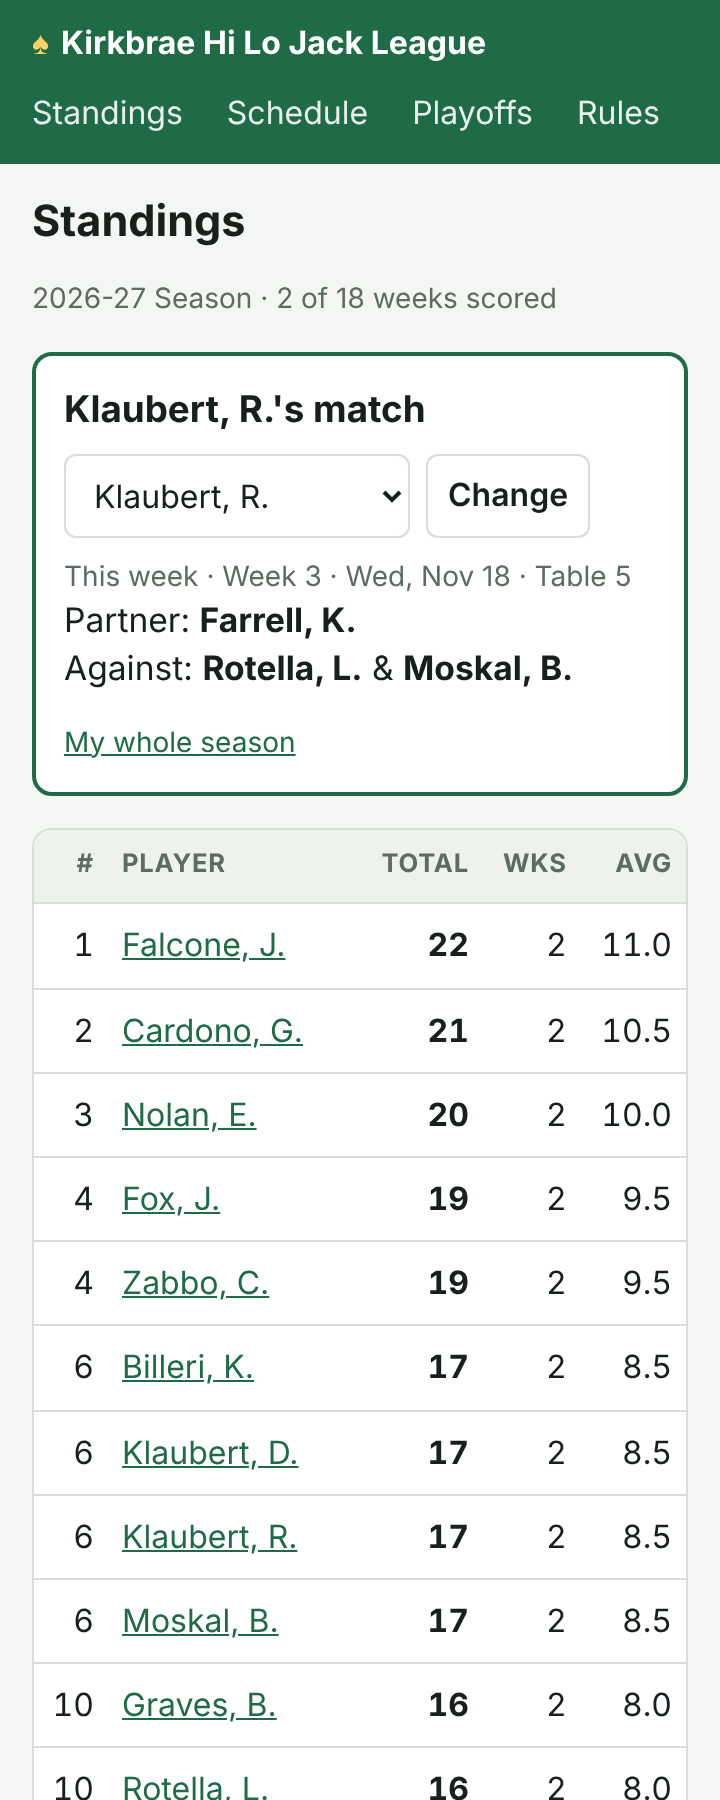
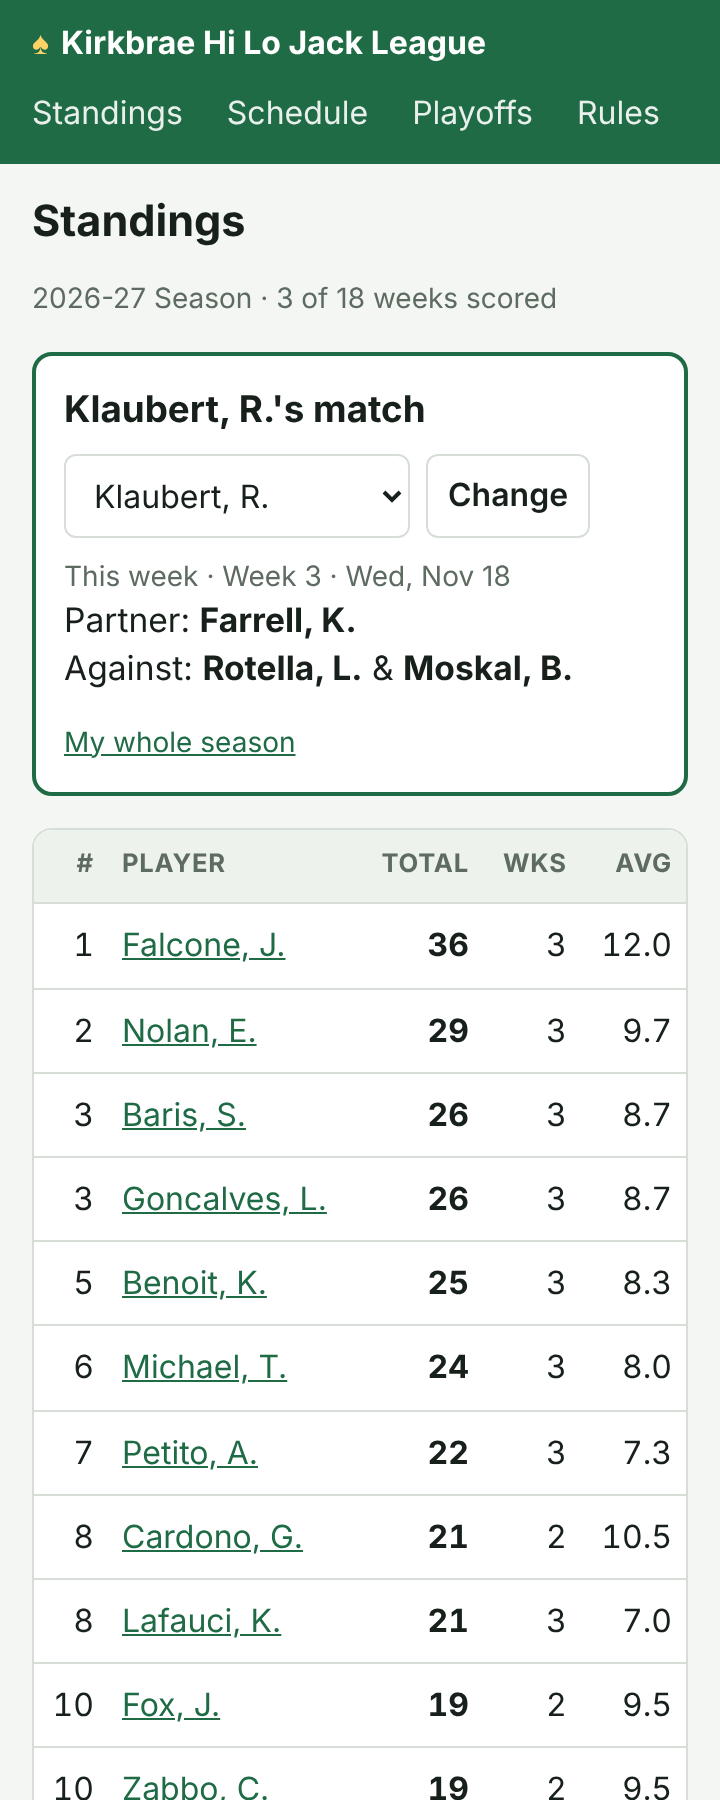
Schedule: arrows only; hide table numbers from players
Claude-Session: https://claude.ai/code/session_01Jx83TDyqF9uZXo5KMhtqjT

diff --git a/app/(site)/players/[id]/page.tsx b/app/(site)/players/[id]/page.tsx
@@ -49,7 +49,6 @@ export default async function PlayerPage({ params }: { params: Promise<{ id: str
             <tr>
               <th className="num">Wk</th>
               <th>Date</th>
-              <th>Table</th>
               <th>Partner</th>
               <th>Opponents</th>
               <th className="num">Points</th>
@@ -61,7 +60,6 @@ export default async function PlayerPage({ params }: { params: Promise<{ id: str
                 <tr key={r.w.week_no}>
                   <td className="num" data-label="Week"><Link href={`/schedule?week=${r.w.week_no}`}>{r.w.week_no}</Link></td>
                   <td data-label="Date">{fmtDate(r.w.play_date, { short: true })}</td>
-                  <td data-label="Table">{r.m.table_no}</td>
                   <td data-label="Partner">{who(r.partner!)}</td>
                   <td data-label="Against">{who(r.opps![0])} &amp; {who(r.opps![1])}</td>
                   <td className="num" data-label="Points">
@@ -78,7 +76,7 @@ export default async function PlayerPage({ params }: { params: Promise<{ id: str
                 <tr key={r.w.week_no}>
                   <td className="num" data-label="Week">{r.w.week_no}</td>
                   <td data-label="Date">{fmtDate(r.w.play_date, { short: true })}</td>
-                  <td colSpan={4} className="muted" data-label="">Not scheduled</td>
+                  <td colSpan={3} className="muted" data-label="">Not scheduled</td>
                 </tr>
               ),
             )}
@@ -86,7 +84,7 @@ export default async function PlayerPage({ params }: { params: Promise<{ id: str
         </table>
       </div>
       <p className="small muted">
-        <Link href={`/schedule?player=${id}`}>Show on the schedule</Link>
+        <Link href="/schedule">This week&apos;s schedule</Link>
       </p>
     </div>
   );

diff --git a/app/globals.css b/app/globals.css
@@ -195,19 +195,18 @@ section[id^="week-"] { scroll-margin-top: 12px; }
   /* Player season table: one compact block per week */
   table.stack-sm thead { display: none; }
   table.stack-sm tr {
-    display: grid; grid-template-columns: auto auto auto 1fr;
-    grid-template-areas: "wk date tbl pts" "partner partner partner partner" "opp opp opp opp";
+    display: grid; grid-template-columns: auto auto 1fr;
+    grid-template-areas: "wk date pts" "partner partner partner" "opp opp opp";
     gap: 2px 12px; padding: 10px 12px; border-bottom: 1px solid var(--border);
   }
   table.stack-sm td { border: none; padding: 0; white-space: normal; text-align: left; }
   table.stack-sm td::before { content: attr(data-label) " "; color: var(--muted); font-size: 0.8rem; }
   table.stack-sm td:nth-child(1) { grid-area: wk; }
   table.stack-sm td:nth-child(2) { grid-area: date; }
-  table.stack-sm td:nth-child(3) { grid-area: tbl; }
-  table.stack-sm td:nth-child(4) { grid-area: partner; }
-  table.stack-sm td:nth-child(5) { grid-area: opp; }
-  table.stack-sm td:nth-child(6) { grid-area: pts; text-align: right; font-weight: 700; }
-  table.stack-sm td[colspan] { grid-area: tbl / tbl / tbl / pts; }
+  table.stack-sm td:nth-child(3) { grid-area: partner; }
+  table.stack-sm td:nth-child(4) { grid-area: opp; }
+  table.stack-sm td:nth-child(5) { grid-area: pts; text-align: right; font-weight: 700; }
+  table.stack-sm td[colspan] { grid-area: pts; text-align: right; }
   table.stack-sm td[colspan]::before, table.stack-sm td:nth-child(2)::before { content: none; }
 
   /* Admin players list: one card-like block per player */

diff --git a/app/(site)/schedule/page.tsx b/app/(site)/schedule/page.tsx
@@ -56,19 +56,8 @@ export default async function SchedulePage({ searchParams }: { searchParams: Sea
         )}
       </div>
 
-      <nav className="weeks-nav" aria-label="All weeks">
-        {weeks.map((w) => (
-          <Link
-            key={w.week_no}
-            href={`/schedule?week=${w.week_no}`}
-            className={[w.week_no === week.week_no && "on", w.week_no === cw && "now"].filter(Boolean).join(" ") || undefined}
-          >
-            {w.week_no}
-          </Link>
-        ))}
-      </nav>
       {week.week_no !== cw && (
-        <p className="small" style={{ marginTop: -6 }}>
+        <p className="small" style={{ textAlign: "center" }}>
           <Link href="/schedule">Back to this week (week {cw})</Link>
         </p>
       )}

diff --git a/components/MyWeek.tsx b/components/MyWeek.tsx
@@ -71,7 +71,7 @@ export function MyWeek({
           <div key={w.week_no} className="mw-main">
             <div className="muted small">
               {w.week_no === week ? "This week" : "Your next match"} · Week {w.week_no}
-              {w.play_date && ` · ${fmtDate(w.play_date)}`} · Table {m!.table_no}
+              {w.play_date && ` · ${fmtDate(w.play_date)}`}
             </div>
             {mine.sub_id != null && (
               <div className="warn">Your sub: {displayName(byId.get(mine.sub_id))}</div>

diff --git a/components/MatchCard.tsx b/components/MatchCard.tsx
@@ -18,9 +18,6 @@ export function MatchCard({
   const winner = a != null && b != null && a !== b ? (a > b ? "A" : "B") : null;
   return (
     <div className="card match">
-      <div className="head">
-        <span>Table {match.table_no}</span>
-      </div>
       {(["A", "B"] as const).map((side) => (
         <div key={side} className={`side${winner === side ? " win" : ""}`}>
           <div className="names">
